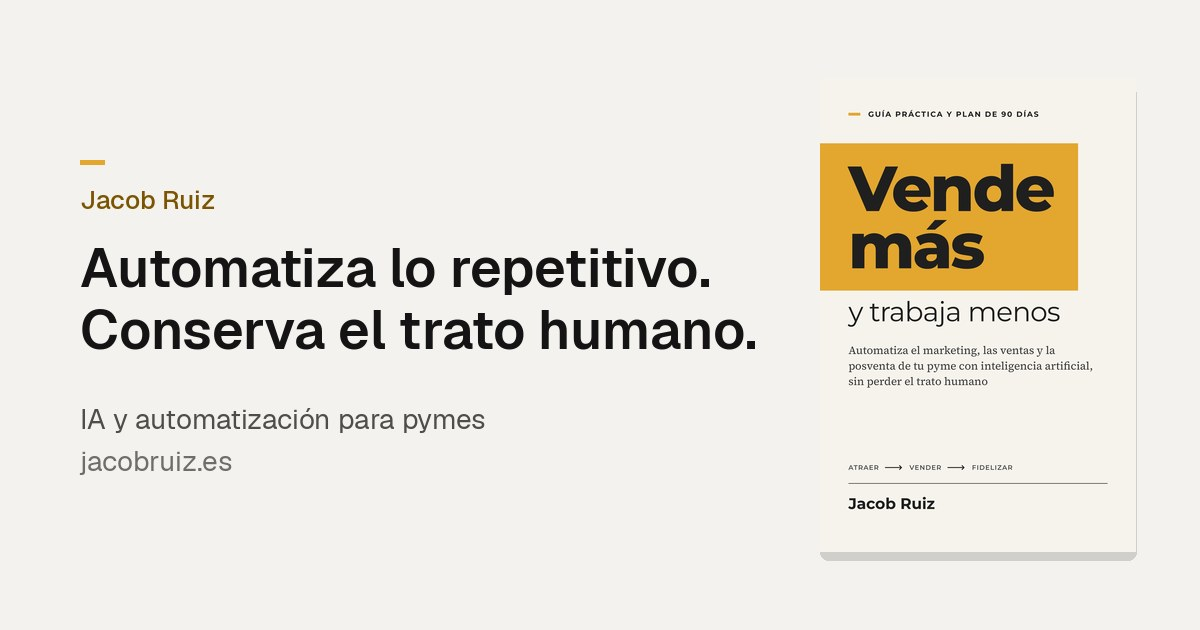
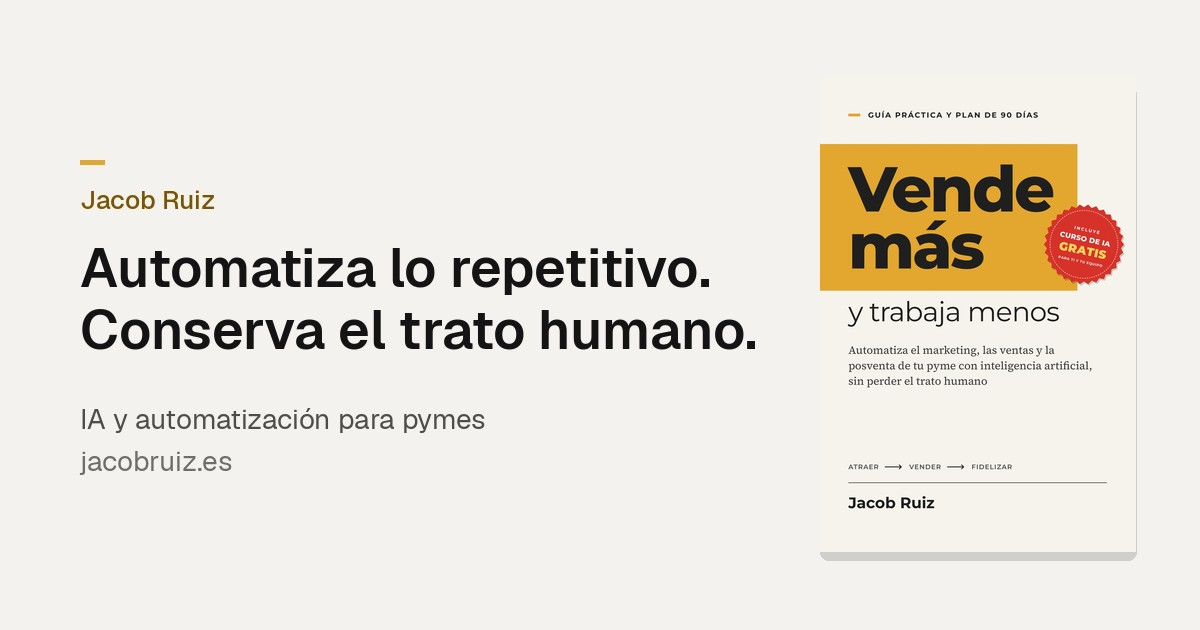
Portada definitiva del libro con el sello «Incluye curso de IA gratis»
- assets/img/portada-libro.jpg: portada con el sello rojo (mismas medidas, colores y tipografía que la cubierta de imprenta).
- assets/img/og.jpg: la imagen para redes lleva también la portada nueva.
- Versiones de caché actualizadas para que se vea la nueva en el momento.

Claude-Session: https://claude.ai/code/session_01RBNdvzJnrKu9AMhkg8eVXn

diff --git a/libro/index.html b/libro/index.html
@@ -14,7 +14,7 @@
 <meta property="og:title" content="Vende más y trabaja menos, el libro de Jacob Ruiz">
 <meta property="og:description" content="Cómo automatizar el marketing, las ventas y la posventa de tu pyme con IA. Compra el libro y descarga gratis sus plantillas y hojas de cálculo.">
 <meta property="og:url" content="https://jacobruiz.es/libro">
-<meta property="og:image" content="https://jacobruiz.es/assets/img/og.jpg?v=2">
+<meta property="og:image" content="https://jacobruiz.es/assets/img/og.jpg?v=3">
 <link rel="icon" href="/favicon.ico" sizes="48x48">
 <link rel="icon" href="/favicon.svg" type="image/svg+xml">
 <link rel="icon" href="/assets/img/icon-96.png" type="image/png" sizes="96x96">
@@ -23,7 +23,7 @@
 <link rel="preload" href="/assets/fonts/Geist-Variable.woff2" as="font" type="font/woff2" crossorigin>
 <link rel="stylesheet" href="/assets/css/site.css?v=7">
 <script>document.documentElement.classList.add("js")</script>
-<script type="application/ld+json">{"@context":"https://schema.org","@graph":[{"@type":"Book","@id":"https://jacobruiz.es/libro#libro","name":"Vende más y trabaja menos","alternativeHeadline":"Automatiza el marketing, las ventas y la posventa de tu pyme con inteligencia artificial, sin perder el trato humano. Guía práctica y plan de 90 días","author":{"@type":"Person","@id":"https://jacobruiz.es/#jacob","name":"Jacob Ruiz","url":"https://jacobruiz.es/"},"inLanguage":"es","image":"https://jacobruiz.es/assets/img/portada-libro.jpg","url":"https://jacobruiz.es/libro"},{"@type":"BreadcrumbList","itemListElement":[{"@type":"ListItem","position":1,"name":"Inicio","item":"https://jacobruiz.es/"},{"@type":"ListItem","position":2,"name":"El libro","item":"https://jacobruiz.es/libro"}]}]}</script>
+<script type="application/ld+json">{"@context":"https://schema.org","@graph":[{"@type":"Book","@id":"https://jacobruiz.es/libro#libro","name":"Vende más y trabaja menos","alternativeHeadline":"Automatiza el marketing, las ventas y la posventa de tu pyme con inteligencia artificial, sin perder el trato humano. Guía práctica y plan de 90 días","author":{"@type":"Person","@id":"https://jacobruiz.es/#jacob","name":"Jacob Ruiz","url":"https://jacobruiz.es/"},"inLanguage":"es","image":"https://jacobruiz.es/assets/img/portada-libro.jpg?v=2","url":"https://jacobruiz.es/libro"},{"@type":"BreadcrumbList","itemListElement":[{"@type":"ListItem","position":1,"name":"Inicio","item":"https://jacobruiz.es/"},{"@type":"ListItem","position":2,"name":"El libro","item":"https://jacobruiz.es/libro"}]}]}</script>
 </head>
 <body>
 <a class="skip" href="#contenido">Saltar al contenido</a>
@@ -47,7 +47,7 @@
       <a class="link-arrow" href="https://advantys.ai/curso-ia-gratis">Curso de IA gratuito <svg class="icon" aria-hidden="true"><use href="/assets/icons.svg#i-arrow-up-right"/></svg></a>
     </div>
     <aside class="buy-book" data-reveal style="--i:4" aria-label="Comprar el libro">
-      <div class="buy-book__cover media" data-hueco="Portada"><img src="/assets/img/portada-libro.jpg" width="1000" height="1500" alt="Portada del libro «Vende más y trabaja menos»" loading="lazy"></div>
+      <div class="buy-book__cover media" data-hueco="Portada"><img src="/assets/img/portada-libro.jpg?v=2" width="1000" height="1500" alt="Portada del libro «Vende más y trabaja menos»" loading="lazy"></div>
       <div>
         <h2 class="h3">¿Todavía no tienes el libro?</h2>
         <p>Este material acompaña a «Vende más y trabaja menos»: cómo automatizar el marketing, las ventas y la posventa de tu pyme con IA, con un plan de 90 días. Y con el libro, el curso de IA gratuito para ti y tu equipo.</p>

diff --git a/guia/politica-uso-ia-empresa.html b/guia/politica-uso-ia-empresa.html
@@ -15,7 +15,7 @@
 <meta property="og:title" content="Política de uso de la IA en la empresa: qué debe incluir (con estructura)">
 <meta property="og:description" content="Qué debe incluir la política de uso de la inteligencia artificial de tu empresa: herramientas autorizadas, datos prohibidos, revisión humana, transparencia y responsables. Con la estructura lista.">
 <meta property="og:url" content="https://jacobruiz.es/guia/politica-uso-ia-empresa">
-<meta property="og:image" content="https://jacobruiz.es/assets/img/og.jpg?v=2">
+<meta property="og:image" content="https://jacobruiz.es/assets/img/og.jpg?v=3">
 <meta name="twitter:card" content="summary_large_image">
 <link rel="icon" href="/favicon.ico" sizes="48x48">
 <link rel="icon" href="/favicon.svg" type="image/svg+xml">

diff --git a/guia/calendario-ai-act.html b/guia/calendario-ai-act.html
@@ -15,7 +15,7 @@
 <meta property="og:title" content="Calendario del AI Act 2026: fechas del Reglamento de IA tras el Ómnibus Digital">
 <meta property="og:description" content="Todas las fechas del Reglamento europeo de IA actualizadas con el Ómnibus Digital (Reglamento 2026/1744): qué se aplica ya, qué llega en diciembre de 2026 y qué se retrasa a 2027 y 2028.">
 <meta property="og:url" content="https://jacobruiz.es/guia/calendario-ai-act">
-<meta property="og:image" content="https://jacobruiz.es/assets/img/og.jpg?v=2">
+<meta property="og:image" content="https://jacobruiz.es/assets/img/og.jpg?v=3">
 <meta name="twitter:card" content="summary_large_image">
 <link rel="icon" href="/favicon.ico" sizes="48x48">
 <link rel="icon" href="/favicon.svg" type="image/svg+xml">

diff --git a/guia/inventario-sistemas-ia.html b/guia/inventario-sistemas-ia.html
@@ -15,7 +15,7 @@
 <meta property="og:title" content="Inventario de sistemas de IA: plantilla y cómo hacerlo para cumplir el AI Act">
 <meta property="og:description" content="Cómo hacer el inventario de herramientas de IA de tu empresa: qué datos recoger, dónde se esconde la IA que nadie ha declarado y cómo usarlo para cumplir el Reglamento europeo.">
 <meta property="og:url" content="https://jacobruiz.es/guia/inventario-sistemas-ia">
-<meta property="og:image" content="https://jacobruiz.es/assets/img/og.jpg?v=2">
+<meta property="og:image" content="https://jacobruiz.es/assets/img/og.jpg?v=3">
 <meta name="twitter:card" content="summary_large_image">
 <link rel="icon" href="/favicon.ico" sizes="48x48">
 <link rel="icon" href="/favicon.svg" type="image/svg+xml">

diff --git a/guia/transparencia-ia-chatbots.html b/guia/transparencia-ia-chatbots.html
@@ -15,7 +15,7 @@
 <meta property="og:title" content="Transparencia en IA (art. 50 AI Act): chatbots y contenido generado">
 <meta property="og:description" content="Qué exige el artículo 50 del Reglamento europeo de IA desde agosto de 2026: avisar de que tu chatbot es una IA, etiquetar deepfakes y textos generados. Con ejemplos de avisos.">
 <meta property="og:url" content="https://jacobruiz.es/guia/transparencia-ia-chatbots">
-<meta property="og:image" content="https://jacobruiz.es/assets/img/og.jpg?v=2">
+<meta property="og:image" content="https://jacobruiz.es/assets/img/og.jpg?v=3">
 <meta name="twitter:card" content="summary_large_image">
 <link rel="icon" href="/favicon.ico" sizes="48x48">
 <link rel="icon" href="/favicon.svg" type="image/svg+xml">

diff --git a/guia/alfabetizacion-ia-articulo-4.html b/guia/alfabetizacion-ia-articulo-4.html
@@ -15,7 +15,7 @@
 <meta property="og:title" content="Alfabetización en IA (art. 4 AI Act): formación obligatoria">
 <meta property="og:description" content="Qué es la alfabetización en IA del artículo 4 del Reglamento europeo, cómo quedó tras el Ómnibus Digital, a quién obliga y cómo documentar la formación de tu equipo.">
 <meta property="og:url" content="https://jacobruiz.es/guia/alfabetizacion-ia-articulo-4">
-<meta property="og:image" content="https://jacobruiz.es/assets/img/og.jpg?v=2">
+<meta property="og:image" content="https://jacobruiz.es/assets/img/og.jpg?v=3">
 <meta name="twitter:card" content="summary_large_image">
 <link rel="icon" href="/favicon.ico" sizes="48x48">
 <link rel="icon" href="/favicon.svg" type="image/svg+xml">

diff --git a/guia/iso-42001-vs-ai-act.html b/guia/iso-42001-vs-ai-act.html
@@ -15,7 +15,7 @@
 <meta property="og:title" content="ISO 42001 y AI Act: diferencias, relación y cuándo certificarse">
 <meta property="og:description" content="Qué es la ISO/IEC 42001, en qué se diferencia del Reglamento europeo de IA, si la certificación sirve para cumplir el AI Act y cuándo le compensa a una empresa.">
 <meta property="og:url" content="https://jacobruiz.es/guia/iso-42001-vs-ai-act">
-<meta property="og:image" content="https://jacobruiz.es/assets/img/og.jpg?v=2">
+<meta property="og:image" content="https://jacobruiz.es/assets/img/og.jpg?v=3">
 <meta name="twitter:card" content="summary_large_image">
 <link rel="icon" href="/favicon.ico" sizes="48x48">
 <link rel="icon" href="/favicon.svg" type="image/svg+xml">

diff --git a/guia/aesia-sanciones.html b/guia/aesia-sanciones.html
@@ -15,7 +15,7 @@
 <meta property="og:title" content="AESIA y multas del AI Act: sanciones del Reglamento de IA en España">
 <meta property="og:description" content="Qué es la AESIA, qué sanciones fija el Reglamento europeo de IA, cómo se aplican a las pymes y en qué punto está la ley española de gobernanza de la IA.">
 <meta property="og:url" content="https://jacobruiz.es/guia/aesia-sanciones">
-<meta property="og:image" content="https://jacobruiz.es/assets/img/og.jpg?v=2">
+<meta property="og:image" content="https://jacobruiz.es/assets/img/og.jpg?v=3">
 <meta name="twitter:card" content="summary_large_image">
 <link rel="icon" href="/favicon.ico" sizes="48x48">
 <link rel="icon" href="/favicon.svg" type="image/svg+xml">

diff --git a/guia/ai-act-pymes.html b/guia/ai-act-pymes.html
@@ -15,7 +15,7 @@
 <meta property="og:title" content="AI Act para pymes: qué tiene que hacer tu empresa en 2026 · Jacob Ruiz">
 <meta property="og:description" content="Qué exige el Reglamento europeo de IA a una pyme que usa ChatGPT, un chatbot o un CRM con IA: obligaciones vigentes, fechas y los cinco pasos para cumplir.">
 <meta property="og:url" content="https://jacobruiz.es/guia/ai-act-pymes">
-<meta property="og:image" content="https://jacobruiz.es/assets/img/og.jpg?v=2">
+<meta property="og:image" content="https://jacobruiz.es/assets/img/og.jpg?v=3">
 <meta name="twitter:card" content="summary_large_image">
 <link rel="icon" href="/favicon.ico" sizes="48x48">
 <link rel="icon" href="/favicon.svg" type="image/svg+xml">

diff --git a/guia/index.html b/guia/index.html
@@ -15,7 +15,7 @@
 <meta property="og:title" content="Guía del AI Act para empresas · Jacob Ruiz">
 <meta property="og:description" content="Guías prácticas del Reglamento europeo de inteligencia artificial para empresas: obligaciones, calendario, alfabetización, transparencia, inventario, política de uso, ISO 42001 y sanciones.">
 <meta property="og:url" content="https://jacobruiz.es/guia">
-<meta property="og:image" content="https://jacobruiz.es/assets/img/og.jpg?v=2">
+<meta property="og:image" content="https://jacobruiz.es/assets/img/og.jpg?v=3">
 <meta name="twitter:card" content="summary_large_image">
 <link rel="icon" href="/favicon.ico" sizes="48x48">
 <link rel="icon" href="/favicon.svg" type="image/svg+xml">

diff --git a/index.html b/index.html
@@ -17,7 +17,7 @@
 <meta property="og:title" content="1.990 € para que tu empresa cumpla el Reglamento europeo de IA.">
 <meta property="og:description" content="Precio cerrado, sin jerga y sin letra pequeña. Y si primero quieres entenderlo, una charla de 90 minutos por 900 €.">
 <meta property="og:url" content="https://jacobruiz.es/">
-<meta property="og:image" content="https://jacobruiz.es/assets/img/og.jpg?v=2">
+<meta property="og:image" content="https://jacobruiz.es/assets/img/og.jpg?v=3">
 <link rel="icon" href="/favicon.ico" sizes="48x48">
 <link rel="icon" href="/favicon.svg" type="image/svg+xml">
 <link rel="icon" href="/assets/img/icon-96.png" type="image/png" sizes="96x96">

diff --git a/cumplimiento-ai-act.html b/cumplimiento-ai-act.html
@@ -15,7 +15,7 @@
 <meta property="og:title" content="Cumplir el AI Act por 1.990 € · Jacob Ruiz">
 <meta property="og:description" content="Tu empresa tiene que cumplir el Reglamento europeo de IA. Yo te lo dejo hecho. Precio cerrado, sin jerga y sin letra pequeña.">
 <meta property="og:url" content="https://jacobruiz.es/cumplimiento-ai-act">
-<meta property="og:image" content="https://jacobruiz.es/assets/img/og.jpg?v=2">
+<meta property="og:image" content="https://jacobruiz.es/assets/img/og.jpg?v=3">
 <meta name="twitter:card" content="summary_large_image">
 <link rel="icon" href="/favicon.ico" sizes="48x48">
 <link rel="icon" href="/favicon.svg" type="image/svg+xml">
